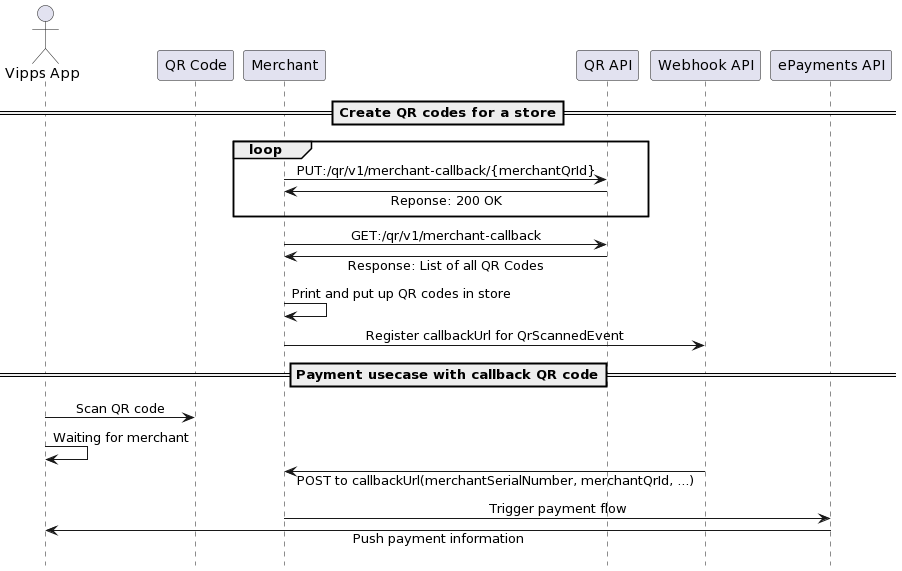
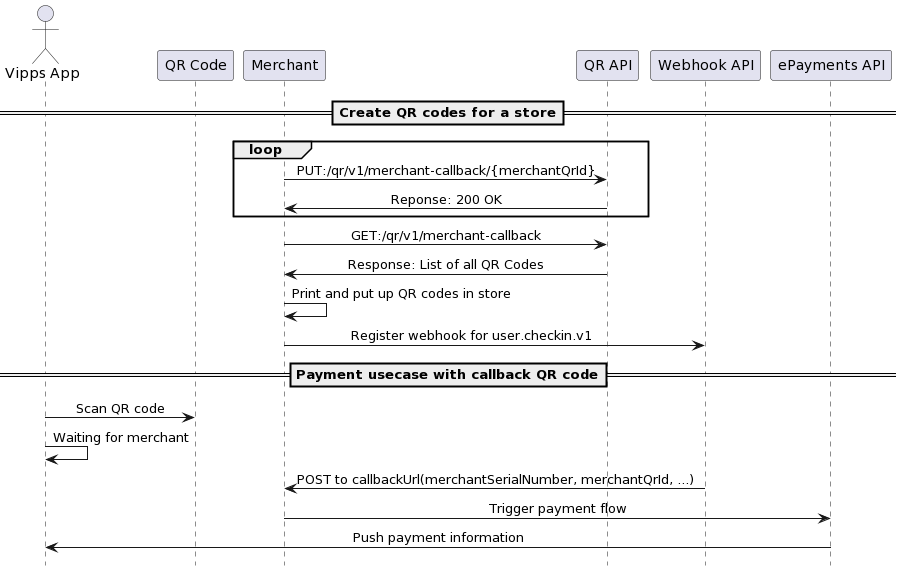
Update picture and event name

diff --git a/vipps-qr-api.md b/vipps-qr-api.md
@@ -400,7 +400,7 @@ An example of a response from this endpoint is the same as the previous, except 
 
 The endpoint that returns a list is nice to have if the merchant has many QR codes in the same location. It will make printing easier.
 
-**Please note:** Before the merchant will receive any callbacks, they need to subscribe to the [QRScannedEvent Webhook](https://developer.vippsmobilepay.com/docs/APIs/webhooks-api/events).
+**Please note:** Before the merchant will receive any callbacks, they need to subscribe to the [user.checkin.v1 Webhook](https://developer.vippsmobilepay.com/docs/APIs/webhooks-api/events).
 
 Here is a sequence diagram that showcases how to use the Merchant callback QR:
 
